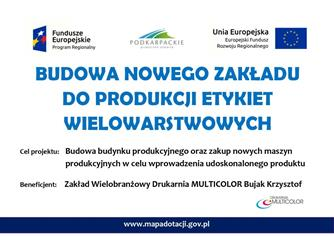
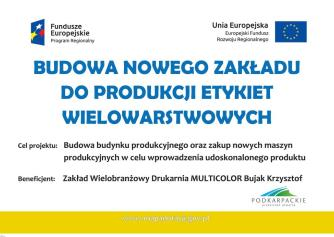
podmiana fotki z tablica, zmiana tresci w index i przetargi

diff --git a/przetargi.php b/przetargi.php
@@ -2,7 +2,18 @@
 
 <h1>Przetargi</h1>
 <hr>
-<p><b>„Budowa nowego zakładu do produkcji etykiet wielowarstwowych”, Projekt realizowany w ramach Regionalnego Programu Operacyjnego Województwa Podkarpackiego na lata 2014-2020, Oś priorytetowa I Konkurencyjna i innowacyjna gospodarka, Działanie: 1.4 Wsparcie MŚP, Poddziałanie: 1.4.1 Dotacje bezpośrednie, Wniosek o dofinansowanie Projektu nr: RPPK.01.04.01-18-0397/16 z dnia 29 kwietnia 2016 r.</b></p>
+<p>„Budowa nowego zakładu do produkcji etykiet wielowarstwowych”, Projekt realizowany w ramach
+Regionalnego Programu Operacyjnego Województwa Podkarpackiego na lata 2014-2020, Oś
+priorytetowa I Konkurencyjna i innowacyjna gospodarka, Działanie: 1.4 Wsparcie MŚP, Poddziałanie:
+1.4.1 Dotacje bezpośrednie, Umowa o dofinansowanie Projektu nr: RPPK.01.04.01-18-0397/16 z dnia
+29 kwietnia 2016 r.</p>
+<p>Źródło finansowania Europejski Fundusz Rozwoju Regionalnego w ramach Regionalnego Programu
+Operacyjnego Województwa Podkarpackiego na lata 2014-2020, Oś priorytetowa I Konkurencyjna i
+innowacyjna gospodarka, Działanie: 1.4 Wsparcie MŚP, Poddziałanie: 1.4.1 Dotacje bezpośrednie,
+Umowa o dofinansowanie Projektu nr: RPPK.01.04.01-18-0397/16 z dnia 29 kwietnia 2016 r.</p>
+<p>Planowany efekt:w wyniku realizacji projektu firma wdroży nowy produkt w postaci etykiet booklet.</p>
+<p>Wartość projektu:11.647.395,36 zł</p>
+<p>Dofinansowanie z UE:6.490.249,99zł</p>
 <hr>
 <p><b>Firma Zakład Wielobranżowy Drukarnia „Mulicolor” Bujak Krzysztof z siedzibą w Jarosławiu w związku z ubieganiem się o dofinansowanie projektu w Polskiej Agencji Rozwoju Przedsiębiorczości, zaprasza niniejszym do złożenia oferty dotyczącej realizacji zamówienia w postaci przeprowadzenia audytu wzorniczego dla firmy Zakład Wielobranżowy Drukarnia „Mulicolor” Bujak Krzysztof wraz z opracowaniem strategii wzorniczej, na potrzeby projektu pn. „Audyt wzorniczy i strategia wzornicza w firmie „Multicolor” Krzysztof Bujak czynnikiem rozwoju i wzrostu konkurencyjności.”, w ramach Programu Operacyjnego Polska Wschodnia 2014-2020, Oś Priorytetowa I: Przedsiębiorcza Polska Wschodnia, Działanie 1.4 Wzór na konkurencję I Etap, Numer konkurs: 1, Rok: 2017.
 </b></p>
